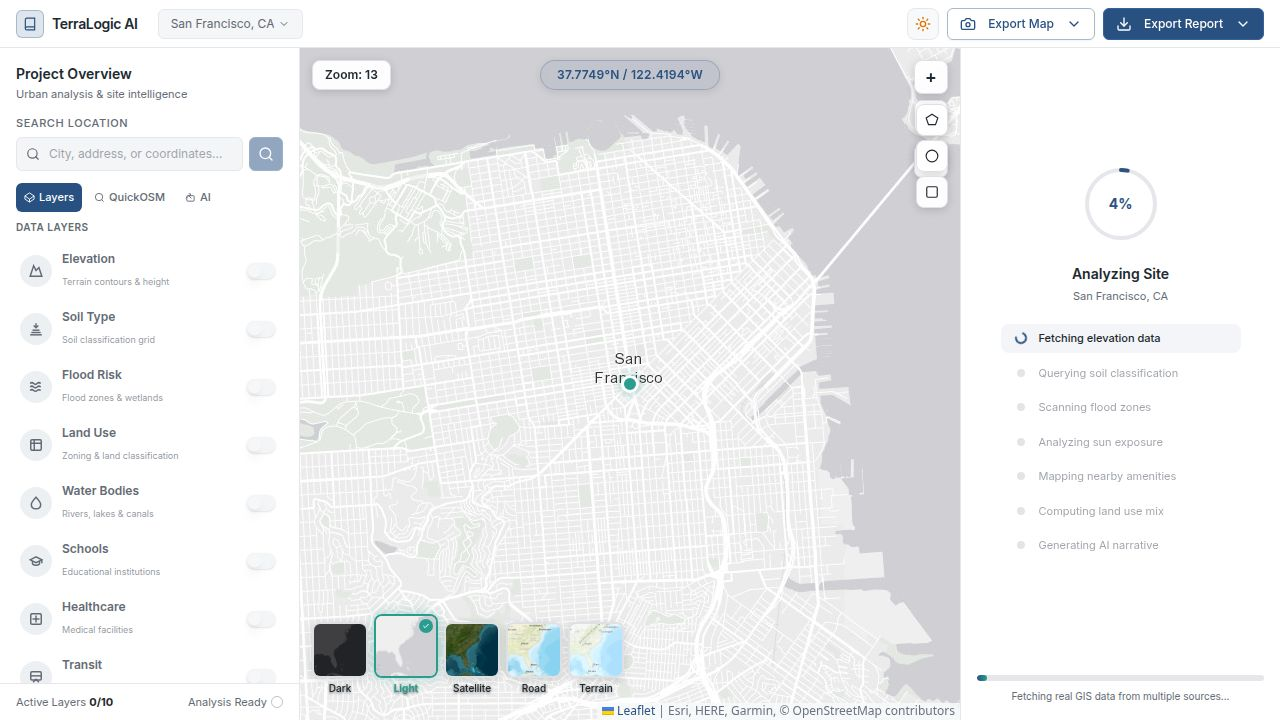
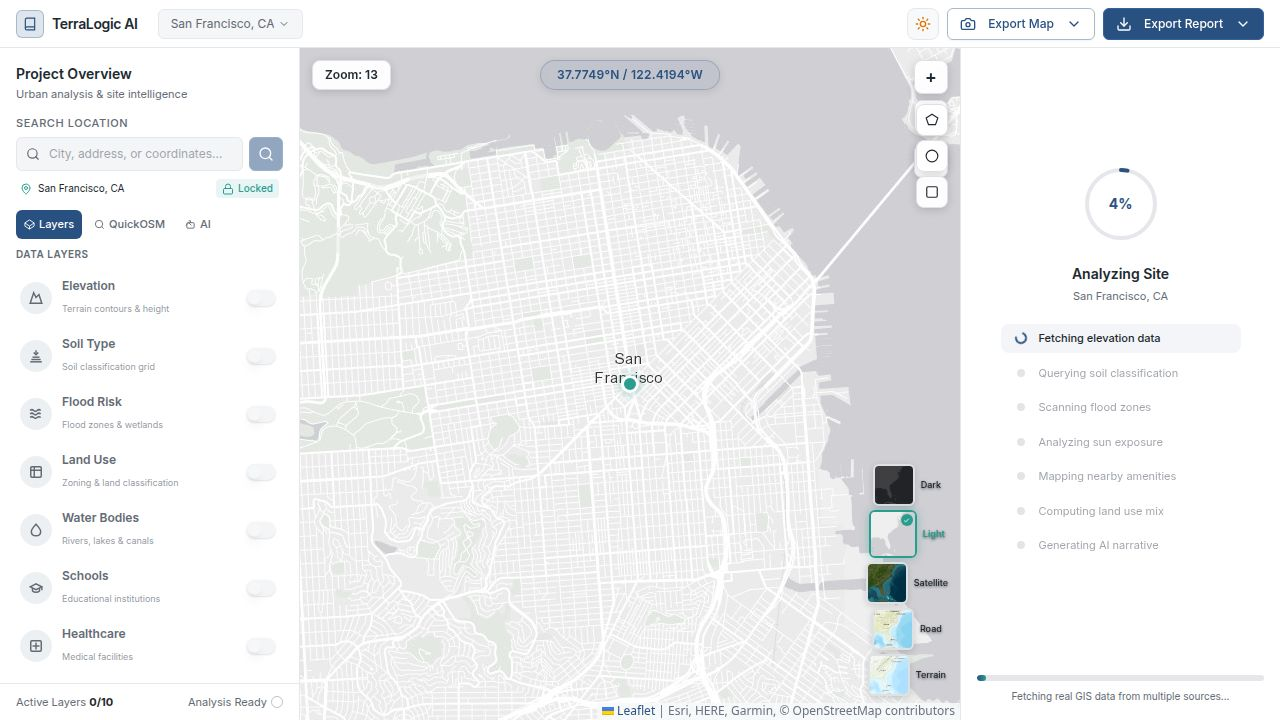
Fix map export centering and basemap picker positioning
Adjusted basemap picker to bottom-right and made it vertical. Updated export functionality to correctly center the map on the selected location.

Replit-Commit-Author: Agent
Replit-Commit-Session-Id: 9562adfe-e36d-418d-b087-8b915ba376bb
Replit-Commit-Checkpoint-Type: full_checkpoint
Replit-Commit-Event-Id: 53b12dd0-e85f-4523-8086-88aaa276a4c7
Replit-Commit-Screenshot-Url: https://storage.googleapis.com/screenshot-production-us-central1/b41e5791-a3dd-400c-b4e6-e7bc7f9ee717/9562adfe-e36d-418d-b087-8b915ba376bb/Y70l6v3
Replit-Helium-Checkpoint-Created: true

diff --git a/client/src/components/MapViewer.tsx b/client/src/components/MapViewer.tsx
@@ -376,12 +376,13 @@ function MapControls({ position, basemap, onBasemapChange }: { position: [number
       </div>
 
       <div
-        className="absolute bottom-6 left-1/2 -translate-x-1/2 z-[1000]"
+        className="absolute bottom-6 right-3 z-[1000]"
         data-testid="basemap-picker"
         style={{
           display: "flex",
-          gap: "6px",
-          alignItems: "flex-end",
+          flexDirection: "column",
+          gap: "4px",
+          alignItems: "center",
         }}
       >
         {(["dark", "light", "satellite", "road", "terrain"] as BasemapType[]).map(type => {
@@ -401,9 +402,9 @@ function MapControls({ position, basemap, onBasemapChange }: { position: [number
               data-testid={`basemap-${type}`}
               style={{
                 display: "flex",
-                flexDirection: "column",
+                flexDirection: "row",
                 alignItems: "center",
-                gap: "3px",
+                gap: "6px",
                 cursor: "pointer",
                 background: "none",
                 border: "none",
@@ -412,14 +413,15 @@ function MapControls({ position, basemap, onBasemapChange }: { position: [number
             >
               <div
                 style={{
-                  width: active ? "64px" : "56px",
-                  height: active ? "64px" : "56px",
-                  borderRadius: "8px",
-                  border: `2.5px solid ${active ? "#2A9D8F" : "var(--map-ctrl-border)"}`,
+                  width: active ? "48px" : "42px",
+                  height: active ? "48px" : "42px",
+                  borderRadius: "6px",
+                  border: `2px solid ${active ? "#2A9D8F" : "var(--map-ctrl-border)"}`,
                   overflow: "hidden",
-                  boxShadow: active ? "0 0 12px rgba(42,157,143,0.4)" : "0 2px 8px rgb(0 0 0 / 0.15)",
+                  boxShadow: active ? "0 0 10px rgba(42,157,143,0.4)" : "0 2px 6px rgb(0 0 0 / 0.15)",
                   transition: "all 0.2s ease",
                   position: "relative",
+                  flexShrink: 0,
                 }}
               >
                 <img
@@ -436,28 +438,29 @@ function MapControls({ position, basemap, onBasemapChange }: { position: [number
                 {active && (
                   <div style={{
                     position: "absolute",
-                    top: "3px",
-                    right: "3px",
-                    width: "14px",
-                    height: "14px",
+                    top: "2px",
+                    right: "2px",
+                    width: "12px",
+                    height: "12px",
                     borderRadius: "50%",
                     background: "#2A9D8F",
                     display: "flex",
                     alignItems: "center",
                     justifyContent: "center",
                   }}>
-                    <svg width="8" height="8" viewBox="0 0 24 24" fill="none" stroke="white" strokeWidth="3"><path d="M20 6L9 17l-5-5"/></svg>
+                    <svg width="7" height="7" viewBox="0 0 24 24" fill="none" stroke="white" strokeWidth="3"><path d="M20 6L9 17l-5-5"/></svg>
                   </div>
                 )}
               </div>
               <span
                 style={{
-                  fontSize: "10px",
+                  fontSize: "9px",
                   fontFamily: "Inter, sans-serif",
                   fontWeight: active ? 700 : 500,
                   color: active ? "#2A9D8F" : "var(--map-ctrl-text)",
                   textShadow: "0 1px 3px rgb(0 0 0 / 0.6)",
                   transition: "color 0.2s ease",
+                  whiteSpace: "nowrap",
                 }}
               >
                 {labels[type]}
@@ -1116,11 +1119,15 @@ const MapViewer = forwardRef<MapViewerHandle, MapViewerProps>(function MapViewer
       let previousCenter: L.LatLng | null = null;
       let previousZoom: number | null = null;
 
-      if (regionBounds && map) {
+      if (map) {
         previousCenter = map.getCenter();
         previousZoom = map.getZoom();
-        const padded = regionBounds.pad(0.2);
-        map.fitBounds(padded, { animate: false, padding: [30, 30] });
+        if (regionBounds) {
+          const padded = regionBounds.pad(0.2);
+          map.fitBounds(padded, { animate: false, padding: [30, 30] });
+        } else {
+          map.setView(position, map.getZoom(), { animate: false });
+        }
         await new Promise(resolve => setTimeout(resolve, 800));
       }
 
